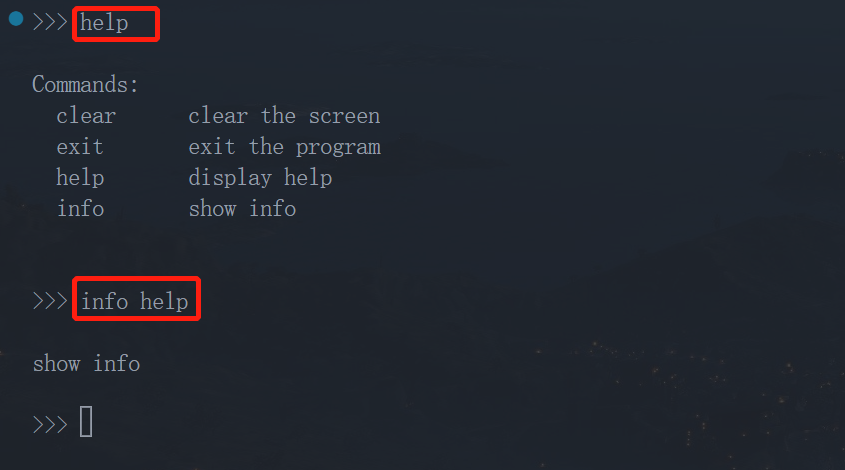
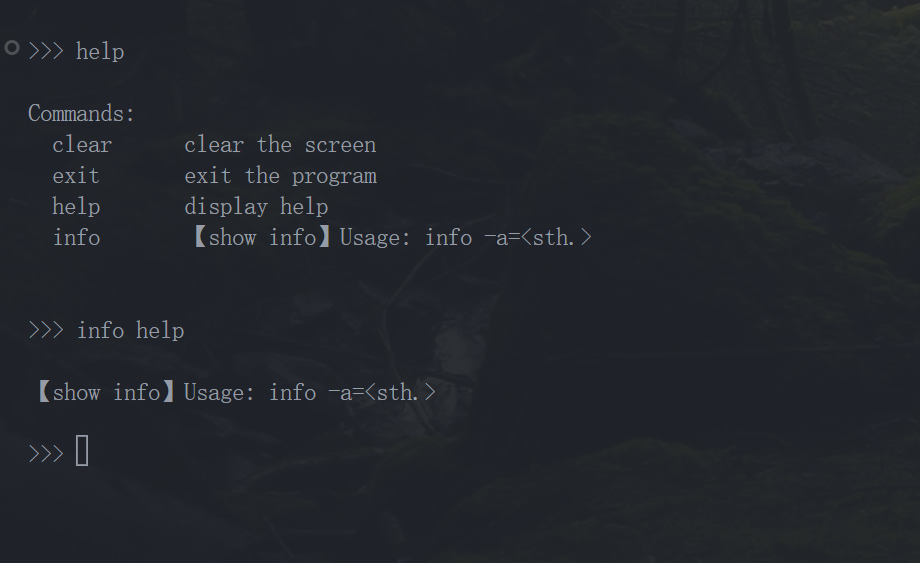
readme

diff --git a/examples/ktrl/ktrl.go b/examples/ktrl/ktrl.go
@@ -18,6 +18,8 @@ type Data struct {
 }
 
 func Info(k *goktrl.KtrlContext) {
+	all := k.Parser.GetOpt("all")
+	fmt.Printf("$$$client: all=%s\n", all)
 	result, err := k.GetResult()
 	if err != nil {
 		fmt.Println(err)
@@ -29,6 +31,8 @@ func Info(k *goktrl.KtrlContext) {
 }
 
 func Handler(c *gin.Context) {
+	all := c.Query("all")
+	fmt.Printf("$$$server: all = %v\n", all)
 	Result := []*Data{
 		{Name: "Apple", Price: 6.0, Stokes: 128, Addition: []interface{}{1, "a", "c"}},
 		{Name: "Banana", Price: 3.5, Stokes: 256, Addition: []interface{}{"b", 1.2}},
@@ -44,7 +48,7 @@ func ShowTable() {
 	kt := goktrl.NewKtrl()
 	kt.AddKtrlCommand(&goktrl.KCommand{
 		Name: "info",
-		Help: "show info",
+		Help: "【show info】Usage: info -a=<sth.>",
 		Func: Info,
 		Opts: goktrl.Opts{&goktrl.Option{
 			Name:      "all,a",

diff --git a/ReadMe.md b/ReadMe.md
@@ -40,19 +40,22 @@ type Data struct {
 
 func Info(k *goktrl.KtrlContext) {
 	all := k.Parser.GetOpt("all")
-	fmt.Println("all: ", all)
+	fmt.Printf("$$$client: all=%s\n", all)
 
-	result, err := k.GetResult()
+	result, err := k.GetResult() // 向服务端发送请求，会自动携带shell收集到的命名参数，例如all
 	if err != nil {
 		fmt.Println(err)
 		return
 	}
 	content := &[]*Data{}
 	err = json.Unmarshal(result, content)
-	k.Table.AddRowsByListObject(*content)
+	k.Table.AddRowsByListObject(*content) // 渲染表格
 }
 
 func Handler(c *gin.Context) {
+	all := c.Query("all")
+	fmt.Printf("$$$server: all = %v\n", all)
+
 	Result := []*Data{
 		{Name: "Apple", Price: 6.0, Stokes: 128, Addition: []interface{}{1, "a", "c"}},
 		{Name: "Banana", Price: 3.5, Stokes: 256, Addition: []interface{}{"b", 1.2}},
@@ -67,17 +70,17 @@ var SName = "info"
 func ShowTable() {
 	kt := goktrl.NewKtrl()
 	kt.AddKtrlCommand(&goktrl.KCommand{
-		Name: "info",      // 命令名称
-		Help: "show info", // 帮助信息
-		Func: Info,
+		Name: "info",                               // 命令名称
+		Help: "【show info】Usage: info -a=<sth.>", // 帮助信息
+		Func: Info, // shell客户端钩子函数
 		Opts: goktrl.Opts{&goktrl.Option{
 			Name:      "all,a", // 参数名称和别名
-			NeedParse: true,    // 是否需要解析
-			Must:      true,    // 是否不能为空
+			NeedParse: true,    // 是否需要解析，针对-xxx等无需传值的标记参数，详见goframe
+			Must:      true,    // 是否不能为空，设置为true后会自动检测shell命令的参数是否已传
 		}},
-		ShowTable:   true,
-		KtrlHandler: Handler,
-		SocketName:  SName,
+		ShowTable:   true,      // 开启表格显示
+		KtrlHandler: Handler,   // 服务端视图函数
+		SocketName:  SName,     // 默认unix套接字名称
 	})
 	go kt.RunCtrl()
 	kt.RunShell()
